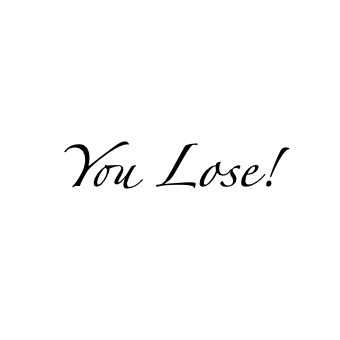
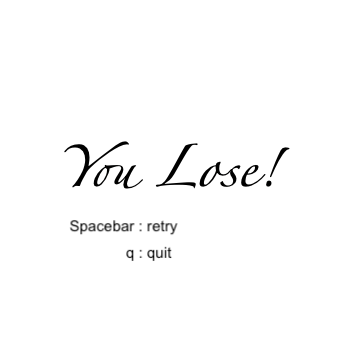
Enfin quelque chose qui ressemble a une presentation

Changed region(s): [[0.2059, 0.6471, 0.5294, 0.7647]]

diff --git a/game.py b/game.py
@@ -15,13 +15,14 @@ class Game:
         maze.display(40, 80)    
         macg = MacGyver(maze)
 
+        reset = 0
         running = True
         while running:
             for event in pygame.event.get():    
                 # Checking every events happening while the game is running
-                if event.type == pygame.QUIT or (event.type == pygame.KEYDOWN and event.type == pygame.K_ESCAPE):
-                    running = False
-                    break       
+                if event.type == pygame.QUIT or (event.type == pygame.KEYDOWN and event.key == pygame.K_ESCAPE):
+                    reset = 2
+                    return reset        
     
                 if event.type == pygame.KEYDOWN:        
                     # IF Keyborad press
@@ -38,8 +39,14 @@ class Game:
                 
                     if event.key == pygame.K_LEFT:  
                         macg.move_left()            
-                        
+
+                #RE-Print/Actualize sreen game after an event on keyboard        
                 maze.display(macg.x, macg.y)             
-                #RE-Print/Actualize sreen game after an event on keyboard
-                macg.check_guardian_position()
-                running = macg.check_win()
+                #Check win or lose conditions and guardian on maps
+                reset = macg.check_guardian_position()
+                if reset == 1 or reset == 2:
+                    return reset
+                reset = macg.check_win()
+                if reset == 1 or reset == 2:
+                    return reset
+                    

diff --git a/maze.py b/maze.py
@@ -116,12 +116,40 @@ class Maze:
 
     def display_win(self):
         #Display the victory screen
+        reset = 0
+        lose = True
         win_img = pygame.image.load('ressource/win.jpg').convert_alpha()
         self.window.blit(win_img, (0, 0))
         pygame.display.flip()
+
+        while lose:
+            for event in pygame.event.get(): 
+                if event.type == pygame.KEYDOWN and event.key == pygame.K_SPACE:
+                    reset = 1
+                    lose = False
+                    return reset
+                            
+                if event.type == pygame.KEYDOWN and event.key == pygame.K_q:
+                    reset = 2
+                    lose = False
+                    return reset
     
     def display_lose(self):
         #Display the defeat screen
+        reset = 0
+        lose = True
         lose_img = pygame.image.load('ressource/game_over.jpg').convert_alpha()
         self.window.blit(lose_img, (0, 0))
         pygame.display.flip()
+
+        while lose:
+            for event in pygame.event.get(): 
+                if event.type == pygame.KEYDOWN and event.key == pygame.K_SPACE:
+                    reset = 1
+                    lose = False
+                    return reset
+                            
+                if event.type == pygame.KEYDOWN and event.key == pygame.K_q:
+                    reset = 2
+                    lose = False
+                    return reset

diff --git a/macgyver.py b/macgyver.py
@@ -53,15 +53,17 @@ class MacGyver:
             self.maze.positions_items[2] = (11, 16)
 
     def check_guardian_position(self):
+        reset = 0
         if self.location_M_x == self.maze.positions_guardian[0] and self.location_M_y == self.maze.positions_guardian[1]:               
             if self.backpack == 3:
                 self.maze.display_slept_guardian()
             else:
-                self.maze.display_lose()
+                reset = self.maze.display_lose()
+                return reset        
+        
 
     def check_win(self):
-        running = True
+        reset = 0
         if self.location_M_x == self.maze.positions_stairway_out[0] and self.location_M_y == self.maze.positions_stairway_out[1]:
-            self.maze.display_win()
-            running = False 
-        return running
+            reset = self.maze.display_win() 
+            return reset 

diff --git a/main.py b/main.py
@@ -4,8 +4,12 @@
 from game import Game
 
 def main():
-    level = Game()
-    level.run()
-            
+    #reset: 0 = running / 1 = reset / 2 = quit
+    reset = 0
+    while reset != 2:
+        level = Game()
+        reset = level.run()
+        
+       
 if __name__ == "__main__":
     main()
